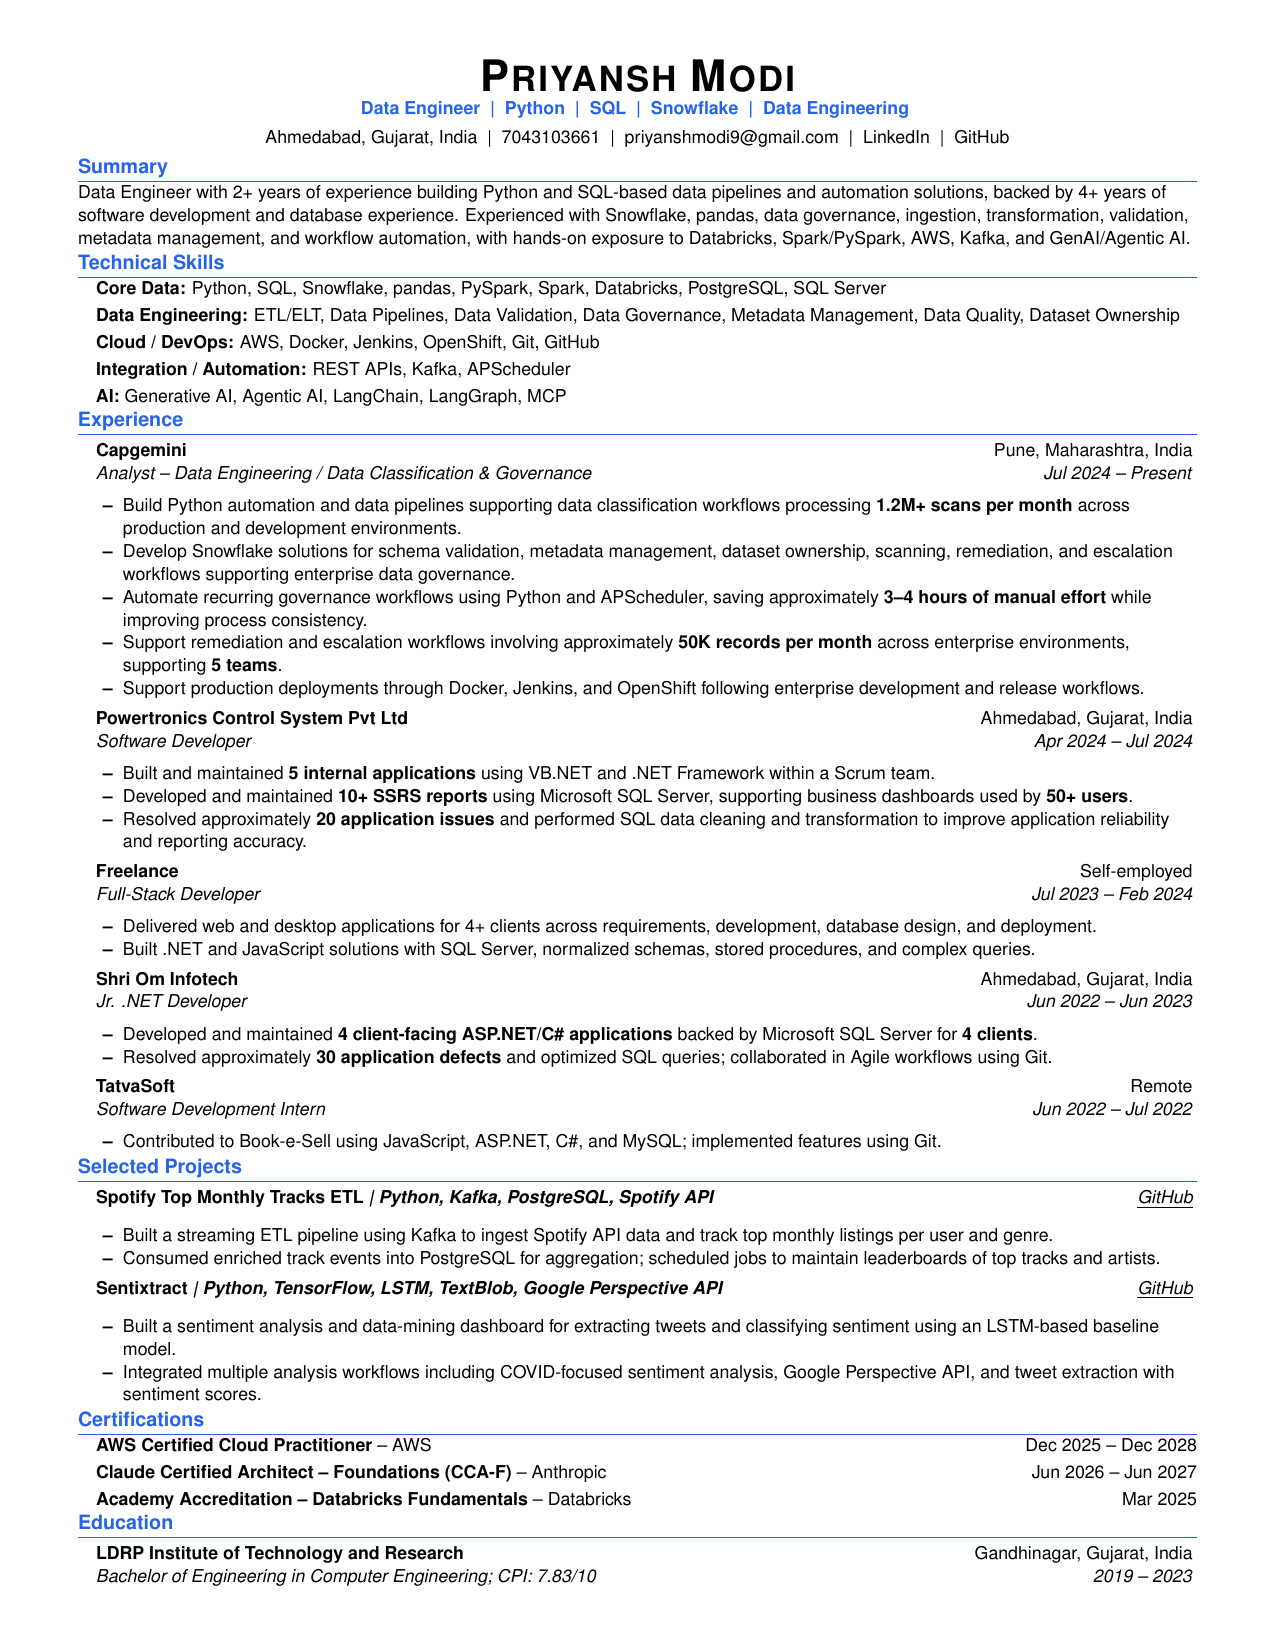
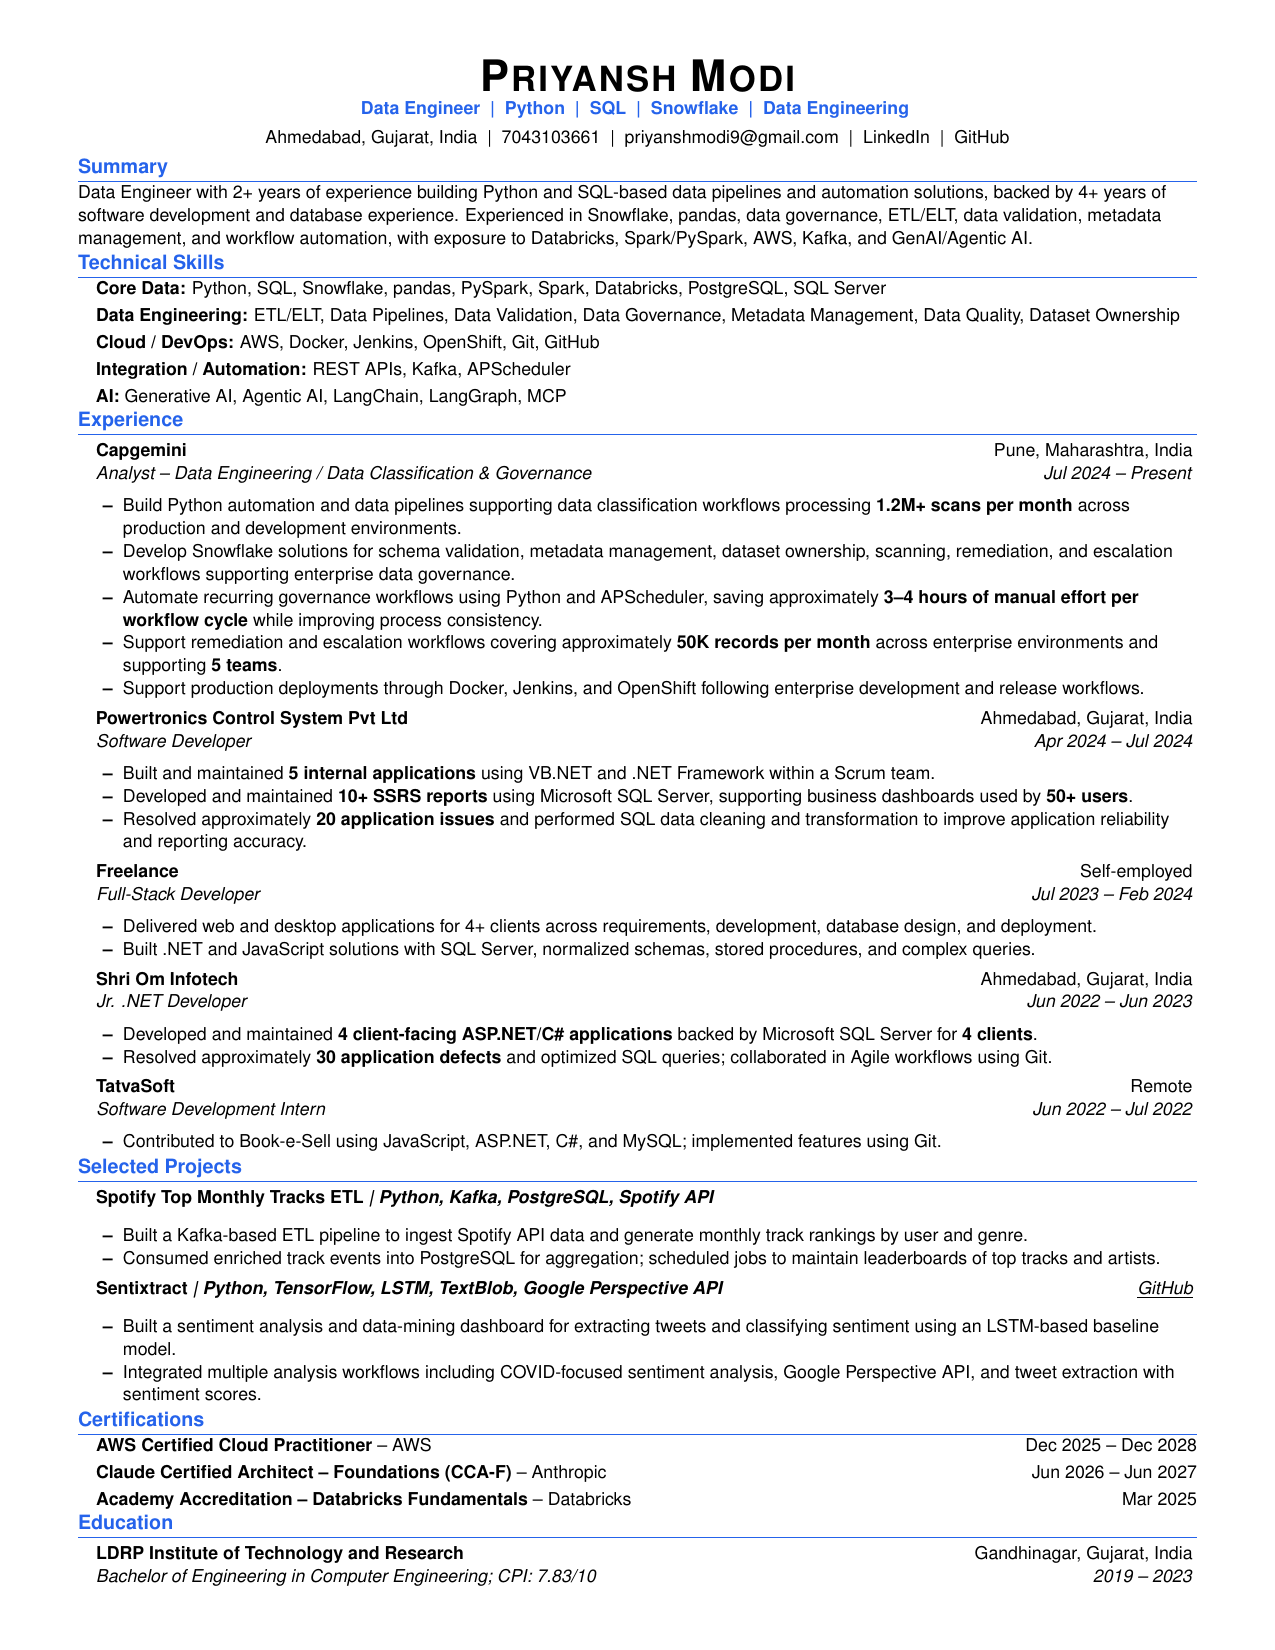
Revise resume content for clarity and impact; add guidelines for coding best practices

diff --git a/Priyansh_Modi_Resume.tex b/Priyansh_Modi_Resume.tex
@@ -114,7 +114,7 @@
 %----------SUMMARY----------
 \section{Summary}
 \small{
-Data Engineer with 2+ years of experience building Python and SQL-based data pipelines and automation solutions, backed by 4+ years of software development and database experience. Experienced with Snowflake, pandas, data governance, ingestion, transformation, validation, metadata management, and workflow automation, with hands-on exposure to Databricks, Spark/PySpark, AWS, Kafka, and GenAI/Agentic AI.
+Data Engineer with 2+ years of experience building Python and SQL-based data pipelines and automation solutions, backed by 4+ years of software development and database experience. Experienced in Snowflake, pandas, data governance, ETL/ELT, data validation, metadata management, and workflow automation, with exposure to Databricks, Spark/PySpark, AWS, Kafka, and GenAI/Agentic AI.
 }
 
 %----------TECHNICAL SKILLS----------
@@ -147,8 +147,8 @@ Data Engineer with 2+ years of experience building Python and SQL-based data pip
 \resumeItemListStart
 \resumeItem{Build Python automation and data pipelines supporting data classification workflows processing \textbf{1.2M+ scans per month} across production and development environments.}
 \resumeItem{Develop Snowflake solutions for schema validation, metadata management, dataset ownership, scanning, remediation, and escalation workflows supporting enterprise data governance.}
-\resumeItem{Automate recurring governance workflows using Python and APScheduler, saving approximately \textbf{3--4 hours of manual effort} while improving process consistency.}
-\resumeItem{Support remediation and escalation workflows involving approximately \textbf{50K records per month} across enterprise environments, supporting \textbf{5 teams}.}
+\resumeItem{Automate recurring governance workflows using Python and APScheduler, saving approximately \textbf{3--4 hours of manual effort per workflow cycle} while improving process consistency.}
+\resumeItem{Support remediation and escalation workflows covering approximately \textbf{50K records per month} across enterprise environments and supporting \textbf{5 teams}.}
 \resumeItem{Support production deployments through Docker, Jenkins, and OpenShift following enterprise development and release workflows.}
 \resumeItemListEnd
 
@@ -204,10 +204,10 @@ Data Engineer with 2+ years of experience building Python and SQL-based data pip
 
 \resumeProjectHeading
   {\textbf{Spotify Top Monthly Tracks ETL} \emph{\small| Python, Kafka, PostgreSQL, Spotify API}}
-  {\href{https://github.com/LeGi0N09}{\underline{GitHub}}}
+  {}
 
 \resumeItemListStart
-\resumeItem{Built a streaming ETL pipeline using Kafka to ingest Spotify API data and track top monthly listings per user and genre.}
+\resumeItem{Built a Kafka-based ETL pipeline to ingest Spotify API data and generate monthly track rankings by user and genre.}
 \resumeItem{Consumed enriched track events into PostgreSQL for aggregation; scheduled jobs to maintain leaderboards of top tracks and artists.}
 \resumeItemListEnd
 

diff --git a/.amazonq/rules/karpathy-skills.md b/.amazonq/rules/karpathy-skills.md
@@ -1,0 +1,67 @@
+---
+name: karpathy-guidelines
+description: Behavioral guidelines to reduce common LLM coding mistakes. Use when writing, reviewing, or refactoring code to avoid overcomplication, make surgical changes, surface assumptions, and define verifiable success criteria.
+license: MIT
+---
+
+# Karpathy Guidelines
+
+Behavioral guidelines to reduce common LLM coding mistakes, derived from [Andrej Karpathy's observations](https://x.com/karpathy/status/2015883857489522876) on LLM coding pitfalls.
+
+**Tradeoff:** These guidelines bias toward caution over speed. For trivial tasks, use judgment.
+
+## 1. Think Before Coding
+
+**Don't assume. Don't hide confusion. Surface tradeoffs.**
+
+Before implementing:
+- State your assumptions explicitly. If uncertain, ask.
+- If multiple interpretations exist, present them - don't pick silently.
+- If a simpler approach exists, say so. Push back when warranted.
+- If something is unclear, stop. Name what's confusing. Ask.
+
+## 2. Simplicity First
+
+**Minimum code that solves the problem. Nothing speculative.**
+
+- No features beyond what was asked.
+- No abstractions for single-use code.
+- No "flexibility" or "configurability" that wasn't requested.
+- No error handling for impossible scenarios.
+- If you write 200 lines and it could be 50, rewrite it.
+
+Ask yourself: "Would a senior engineer say this is overcomplicated?" If yes, simplify.
+
+## 3. Surgical Changes
+
+**Touch only what you must. Clean up only your own mess.**
+
+When editing existing code:
+- Don't "improve" adjacent code, comments, or formatting.
+- Don't refactor things that aren't broken.
+- Match existing style, even if you'd do it differently.
+- If you notice unrelated dead code, mention it - don't delete it.
+
+When your changes create orphans:
+- Remove imports/variables/functions that YOUR changes made unused.
+- Don't remove pre-existing dead code unless asked.
+
+The test: Every changed line should trace directly to the user's request.
+
+## 4. Goal-Driven Execution
+
+**Define success criteria. Loop until verified.**
+
+Transform tasks into verifiable goals:
+- "Add validation" → "Write tests for invalid inputs, then make them pass"
+- "Fix the bug" → "Write a test that reproduces it, then make it pass"
+- "Refactor X" → "Ensure tests pass before and after"
+
+For multi-step tasks, state a brief plan:
+```
+1. [Step] → verify: [check]
+2. [Step] → verify: [check]
+3. [Step] → verify: [check]
+```
+
+Strong success criteria let you loop independently. Weak criteria ("make it work") require constant clarification.

diff --git a/.amazonq/rules/AGENTS.md b/.amazonq/rules/AGENTS.md
@@ -1,0 +1,26 @@
+# Ponytail, lazy senior dev mode
+
+You are a lazy senior developer. Lazy means efficient, not careless. The best code is the code never written.
+
+Before writing any code, stop at the first rung that holds:
+
+1. Does this need to be built at all? (YAGNI)
+2. Does the standard library already do this? Use it.
+3. Does a native platform feature cover it? Use it.
+4. Does an already-installed dependency solve it? Use it.
+5. Can this be one line? Make it one line.
+6. Only then: write the minimum code that works.
+
+Rules:
+
+- No abstractions that weren't explicitly requested.
+- No new dependency if it can be avoided.
+- No boilerplate nobody asked for.
+- Deletion over addition. Boring over clever. Fewest files possible.
+- Question complex requests: "Do you actually need X, or does Y cover it?"
+- Pick the edge-case-correct option when two stdlib approaches are the same size, lazy means less code, not the flimsier algorithm.
+- Mark intentional simplifications with a `ponytail:` comment. If the shortcut has a known ceiling (global lock, O(n²) scan, naive heuristic), the comment names the ceiling and the upgrade path.
+
+Not lazy about: input validation at trust boundaries, error handling that prevents data loss, security, accessibility, the calibration real hardware needs (the platform is never the spec ideal, a clock drifts, a sensor reads off), anything explicitly requested. Lazy code without its check is unfinished: non-trivial logic leaves ONE runnable check behind, the smallest thing that fails if the logic breaks (an assert-based demo/self-check or one small test file; no frameworks, no fixtures). Trivial one-liners need no test.
+
+(Yes, this file also applies to agents working on the ponytail repo itself. Especially to them.)
